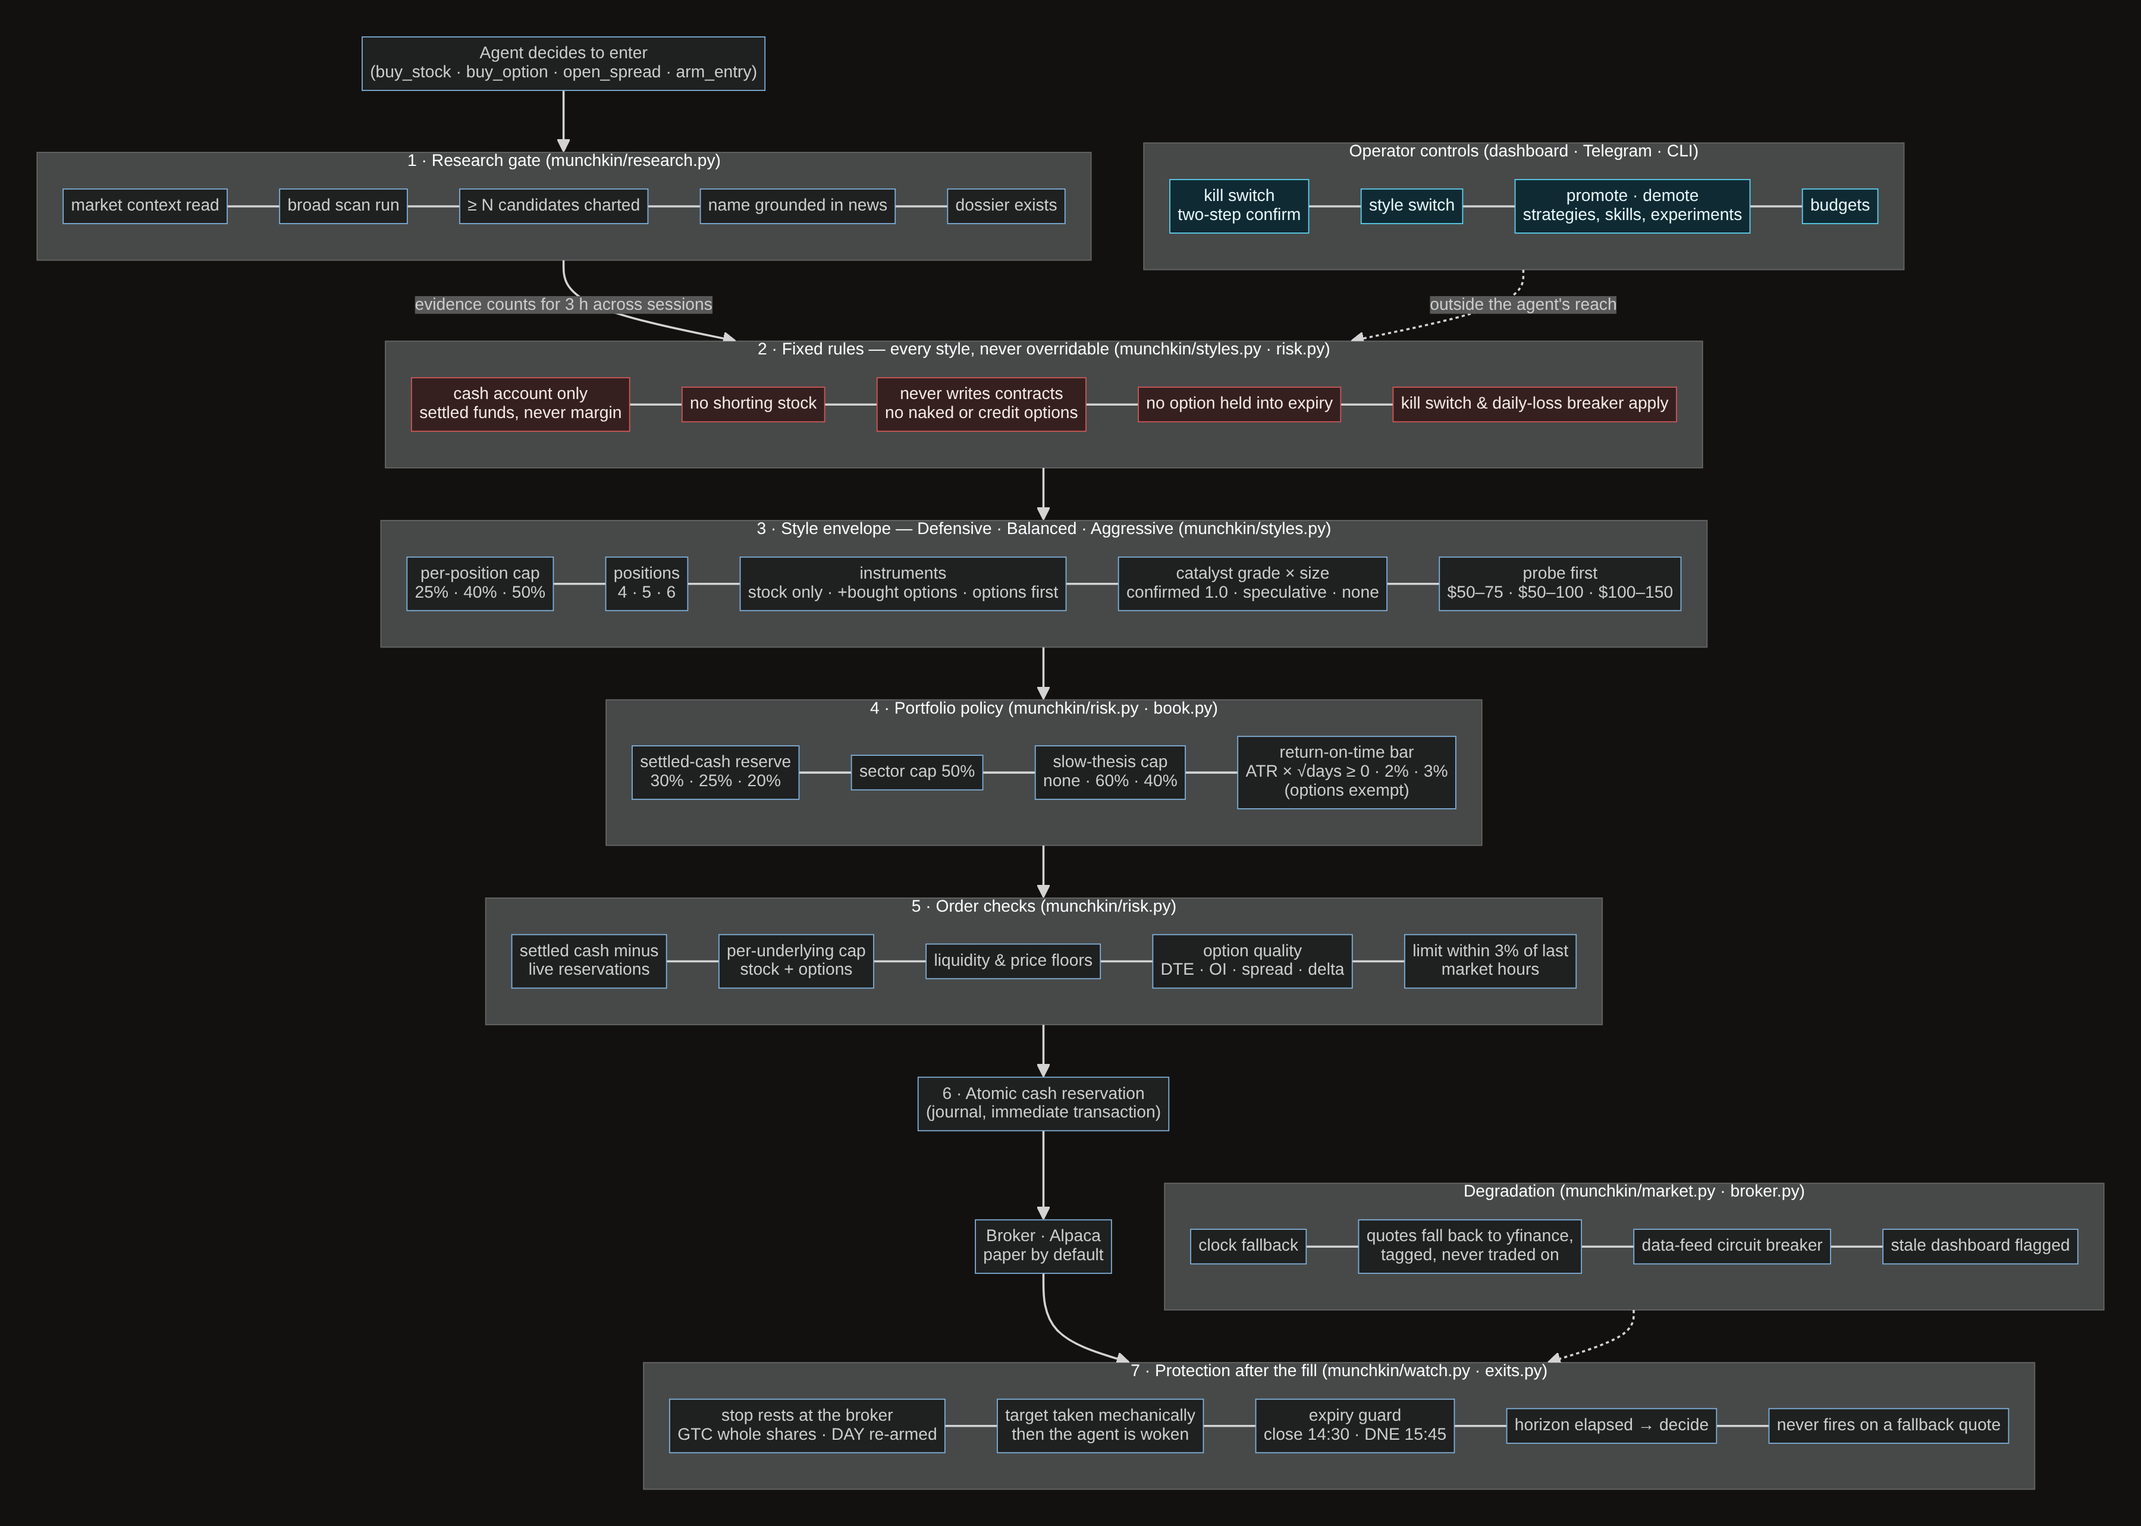
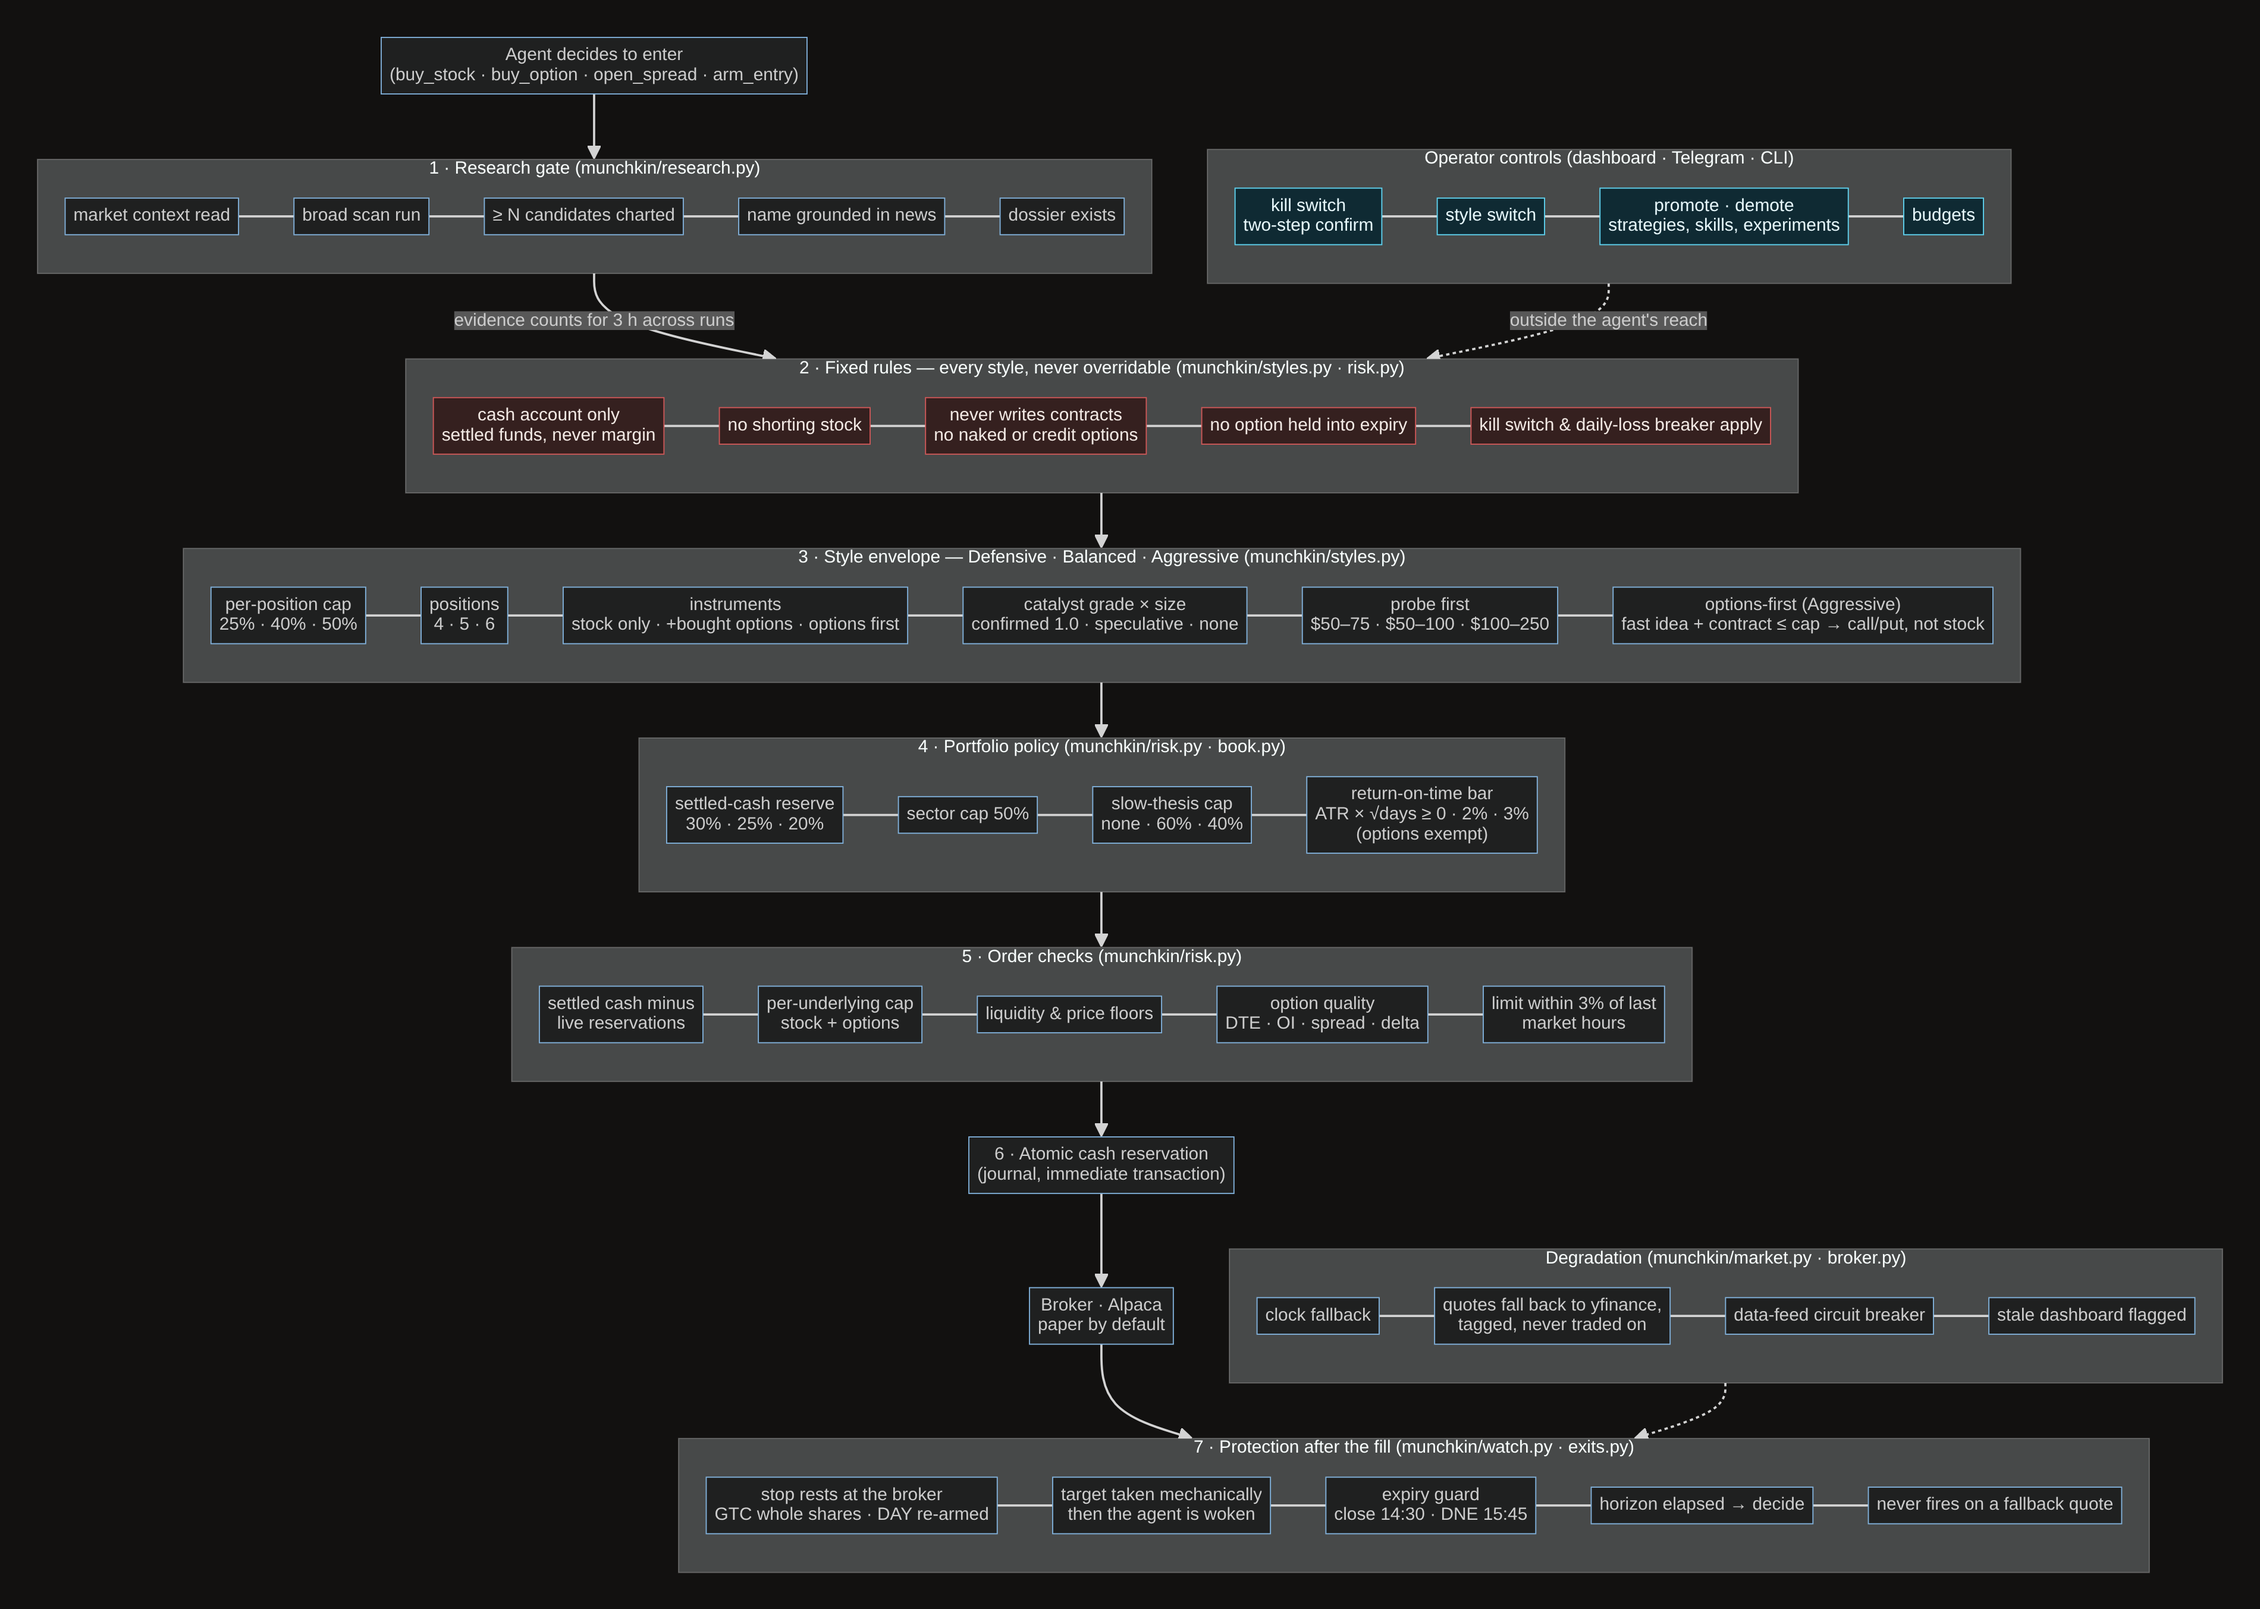
Docs: options-first under Aggressive, the $250 cap, the reevaluation run; guardrails diagram re-rendered
Claude-Session: https://claude.ai/code/session_019hmLLiC5K9rj46DGTXpF18

diff --git a/README.md b/README.md
@@ -112,11 +112,13 @@ raises an event when a position's journaled horizon elapses, and the agent must 
 ## Trading styles
 
 Three operator-selected styles change the risk envelope, the instruments, the cadence and the agent's brief.
-The active style applies from the next run.
+The active style applies from the next run, and **switching it queues a reevaluation run** that re-judges every armed entry (keep, re-express, resize, disarm) and every position (keep, trim, exit) against the new rules; `munchkin reevaluate --reason ...` fires the same run after any rule change.
+
+Under Aggressive the engine is **options-first**: a fast directional idea (horizon of hours to a few days) on a name with a bought call or put, or a real debit vertical, at or under $250 of premium is refused as stock, and the refusal names the contract, the limit and the tool to use. Bearish views are bought puts on breakdown triggers. Stock remains for slow theses (over five trading days, capped at 40% of the book) and for names whose contracts cost more than the cap. The agent's own playbook may add caution to an instrument but can never ban one the style allows. Since at-the-money options on $200 to $400 stocks cost $300 to $1,500 a contract, the board is steered to liquid underlyings priced roughly $15 to $120, where one contract fits.
 
 | | Defensive | Balanced (default) | Aggressive |
 |---|---|---|---|
-| instruments | stock only | stock, bought calls/puts, debit verticals | bought calls/puts first for fast setups; verticals when IV is rich |
+| instruments | stock only | stock, bought calls/puts, debit verticals | **options-first, enforced**: a fast idea with a qualifying contract is refused as stock and handed the call, put or debit vertical to buy |
 | probes | $50–75 | $50–100 | $100–250 |
 | per position / positions | 25% / 4 | 40% / 5 | 50% / 6 |
 | catalyst grades | confirmed only | speculative ×0.5, unexplained ×0.35 | speculative ×0.75, unexplained ×0.5 |
@@ -290,6 +292,7 @@ munchkin plan | munchkin playbook
 munchkin screener refresh | backtest --years 3 | earnings | regime | intraday --setups
 munchkin screener query "rsi14 < 30 and avg_dollar_vol20_m > 50" --sort rsi14 --asc
 munchkin skills [--show NAME] [--approve NAME] [--enable NAME] [--disable NAME]   # installed skills
+munchkin reevaluate --reason "..."                 # re-judge every arm and position against the rules now in force
 munchkin telegram                                  # the command-channel poller (runs as the munchkin-telegram service)
 munchkin notify "text" [--kind fills]              # test a push to the paired chats
 munchkin halt | munchkin halt --resume             # block new entries; exits keep working

diff --git a/docs/guardrails.md b/docs/guardrails.md
@@ -21,7 +21,7 @@ flowchart TD
 
     subgraph ST["3 · Style envelope — Defensive · Balanced · Aggressive  (munchkin/styles.py)"]
         direction LR
-        S1["per-position cap<br/>25% · 40% · 50%"] --- S2["positions<br/>4 · 5 · 6"] --- S3["instruments<br/>stock only · +bought options · options first"] --- S4["catalyst grade × size<br/>confirmed 1.0 · speculative · none"] --- S5["probe first<br/>$50–75 · $50–100 · $100–150"]
+        S1["per-position cap<br/>25% · 40% · 50%"] --- S2["positions<br/>4 · 5 · 6"] --- S3["instruments<br/>stock only · +bought options · options first"] --- S4["catalyst grade × size<br/>confirmed 1.0 · speculative · none"] --- S5["probe first<br/>$50–75 · $50–100 · $100–250"] --- S6["options-first (Aggressive)<br/>fast idea + contract ≤ cap → call/put, not stock"]
     end
     ST --> PP
 
@@ -89,7 +89,7 @@ flowchart LR
 |---|---|---|
 | cash only, no margin, no shorting, never writes contracts, no option into expiry | `risk.py`, `optentry.py`, `exits.py` | nobody at runtime |
 | kill switch, daily-loss breaker | `risk.py`, HALT file | operator (switch), style (threshold) |
-| position caps, positions, instruments, catalyst multipliers, probes | `styles.py` → `risk.py` | operator via style switch |
+| position caps, positions, instruments, options-first, catalyst multipliers, probes | `styles.py` → `risk.py`, `tools.py` | operator via style switch (which queues a reevaluation run) |
 | cash reserve, sector cap, slow-thesis cap, return-on-time | `styles.py` → `risk.policy_checks` | operator via style switch |
 | research gate | `research.py` | `munchkin.toml [risk]` |
 | settled cash minus reservations, per-underlying cap, liquidity, option quality | `risk.py`, `journal.reserve` | `munchkin.toml [risk]` |
